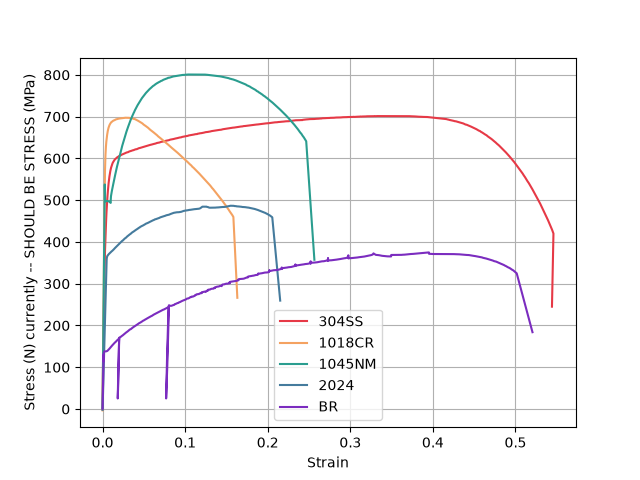
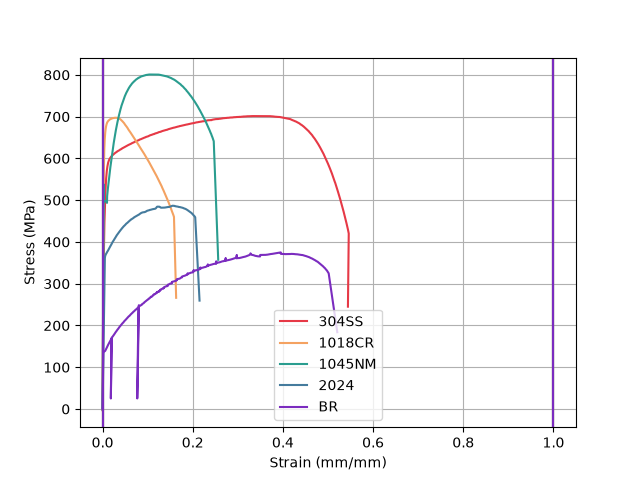
full upload

diff --git a/lab-2/data_processing.py b/lab-2/data_processing.py
@@ -185,6 +185,8 @@ def main():
     i = 0
     plt.figure()
     for material in file_names:
+        if material == "N02DBR_1.csv":
+            continue #comment out if you want brass in main graph
         time, displacement, force, strain = dataset[i]
         force = np.array(force)
         strain = np.array(strain)
@@ -236,20 +238,34 @@ def main():
     plt.xlabel("Strain (mm/mm)")
     plt.ylabel("Stress (MPa)")
     plt.grid()
+    '''uncomment for aluminum 7075 in main figure
+    initial_gage_diameters_lab1 = [12.68, 12.54, 7.23]
+    aluminum7075_data = dataset_lab1[-1]
+    time, displacement, force, strain = aluminum7075_data
+    stress = force / initial_gage_diameters_lab1[-1] * 1000
+    plt.plot(strain, stress, color='#ad9c6c', label="7075")
+    '''
     plt.legend()
+    plt.plot()
     plt.savefig(os.path.join(IMAGES_DIR, 'stress_strain_plots_final.png'))
     plt.close()
 
     """
     Deliverable 1 for lab 1
     """
+    hardnesses_lab1 = [97.5, 88.5, 87.3]
+    initial_gage_diameters_lab1 = [12.68, 12.54, 7.23]
+    final_gage_diameters_lab1 = [12.67, 12.98, 5.94]
+
     i = 0
     plt.figure()
     for material in file_names_lab1:
-        time, displacement, force, strain = dataset[i]
+        if material == 'N02C7075_1.csv':
+            continue
+        time, displacement, force, strain = dataset_lab1[i]
         force = np.array(force)
         strain = np.array(strain)
-        area = np.pi * (initial_gage_diameters[i]/2)**2
+        area = np.pi * (initial_gage_diameters_lab1[i]/2)**2
         stress = force/area * 1000 #MPa
 
         #['N02D1018CR_1.csv', 'N02D1045NM_1.csv', 'N02C7075_1.csv']
@@ -412,10 +428,11 @@ def main():
         strain = np.array(strain)
         area = np.pi * (initial_gage_diameters[i]/2)**2
         stress = force/area * 1000 #MPa
-
+        '''
         print(material + " integral:")
         print(integrate_discrete(strain, stress))
         print()
+        '''
         i+=1
 
     i=0
@@ -425,10 +442,11 @@ def main():
         strain = np.array(strain)
         area = np.pi * (initial_gage_diameters_lab1[i]/2)**2
         stress = force/area * 1000 #MPa
-
+        '''
         print(material + " integral:")
         print(integrate_discrete(strain, stress))
         print()
+        '''
         i+=1
 
 
